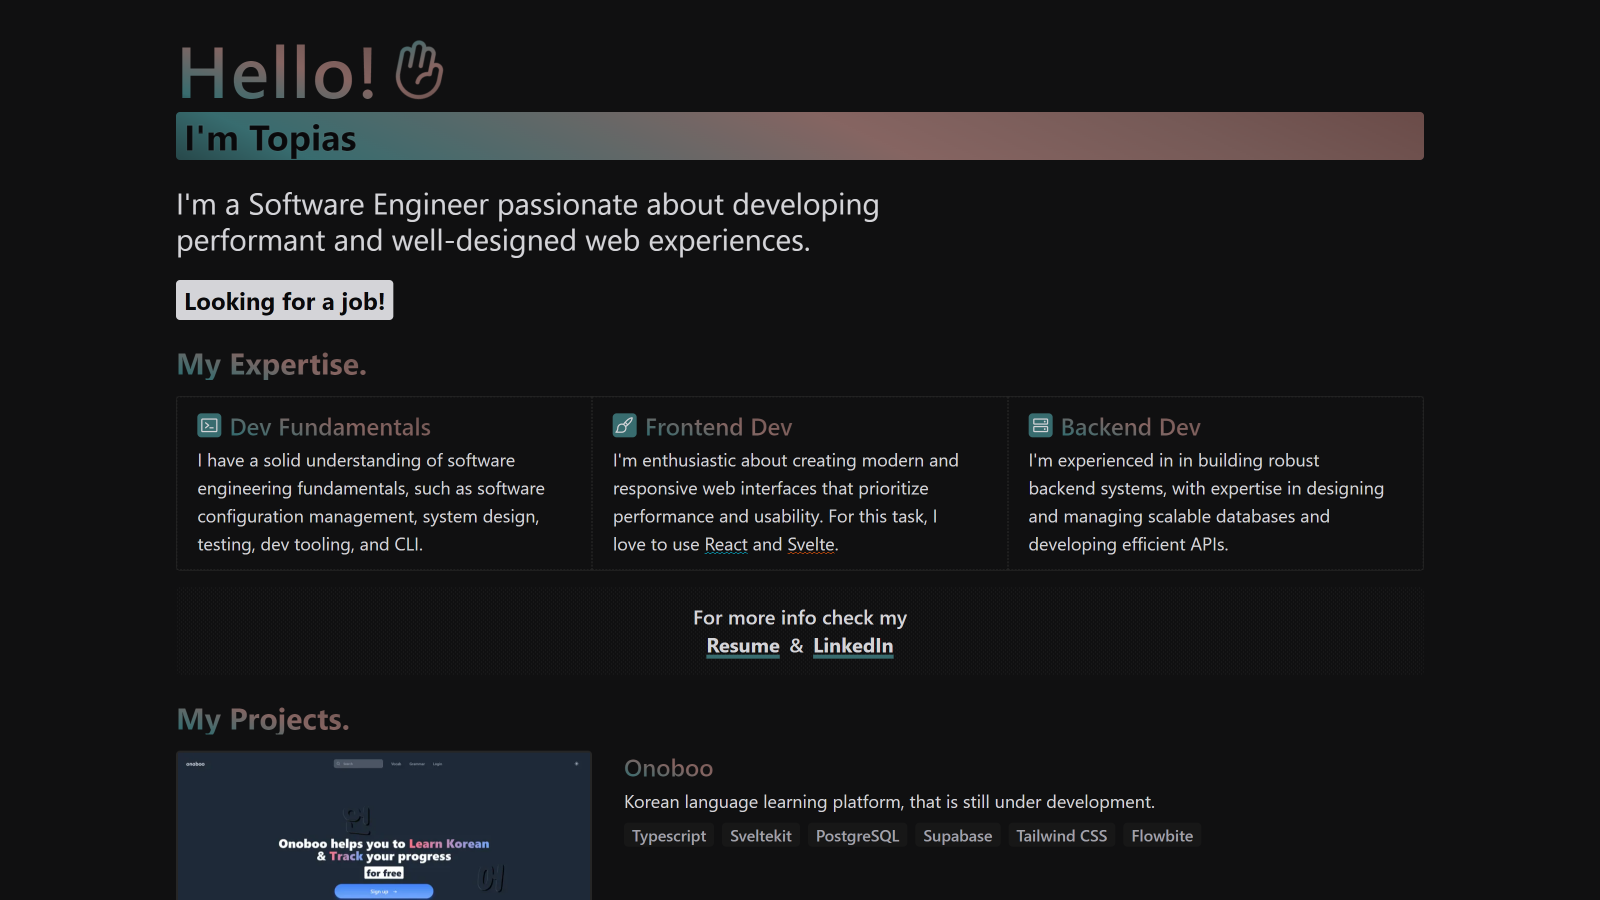
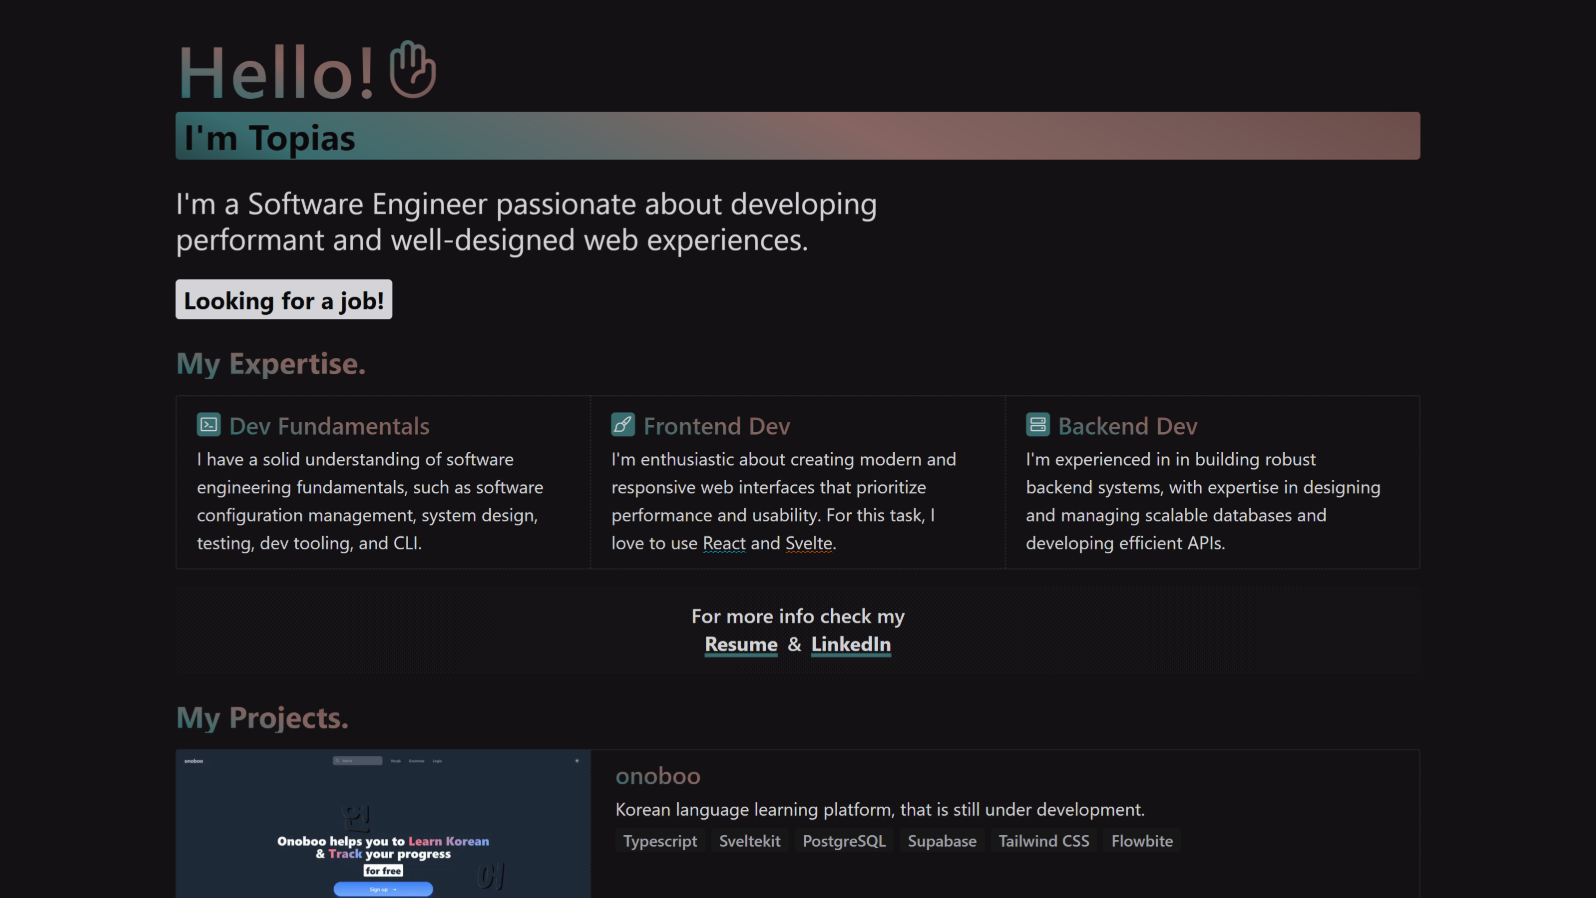
Resume download, small style changes, topias.dev screenshot updated

Changed region(s): [[0.3684, 0.8419, 0.7368, 0.9666], [0.1842, 0.9354, 0.307, 0.9978], [0.2456, 0.0312, 0.2763, 0.1247]]

diff --git a/src/env.d.ts b/src/env.d.ts
@@ -1,6 +1,7 @@
 interface ImportMetaEnv {
   readonly PUBLIC_LINKEDIN_URL: string;
   readonly PUBLIC_GITHUB_URL: string;
+  readonly PUBLIC_RESUME_FILE: string;
 }
 
 interface ImportMeta {
